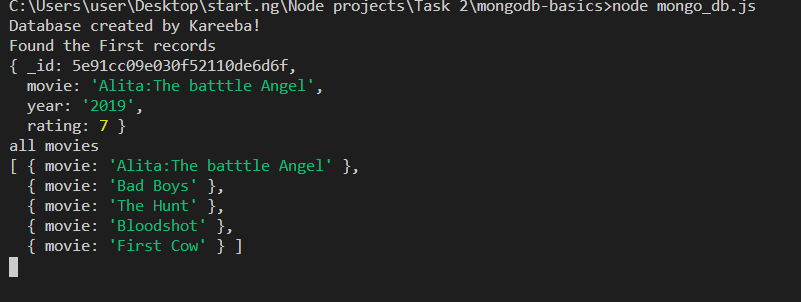
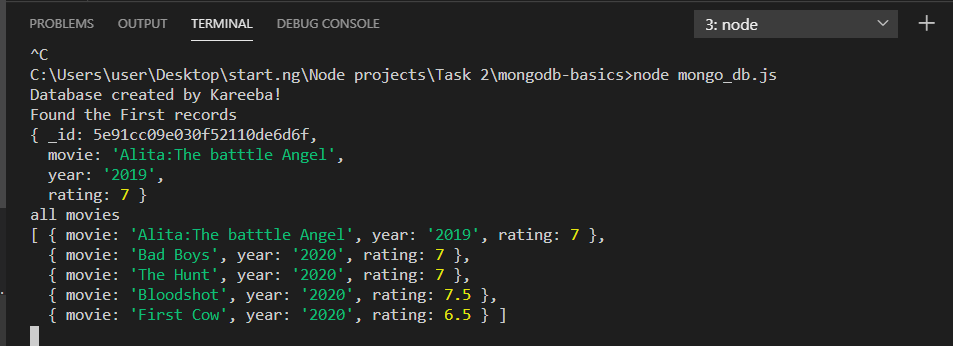
Task 3 completed

Changed region(s): [[0.0, 0.0, 1.0, 1.0]]

diff --git a/findInterns.js b/findInterns.js
@@ -11,7 +11,7 @@ const findMovies = function(db, callback){
     // assert.equal(err, null);
     // console.log("all movies with a rating of 7");
     // console.log(result)
-    myMovies.find({}, { projection: {_id: 0, year: 0, rating:0} }).toArray(function(err, result){ 
+    myMovies.find({}, { projection: {_id: 0} }).toArray(function(err, result){ 
         assert.equal(err, null);
         console.log("all movies");
         console.log(result)
